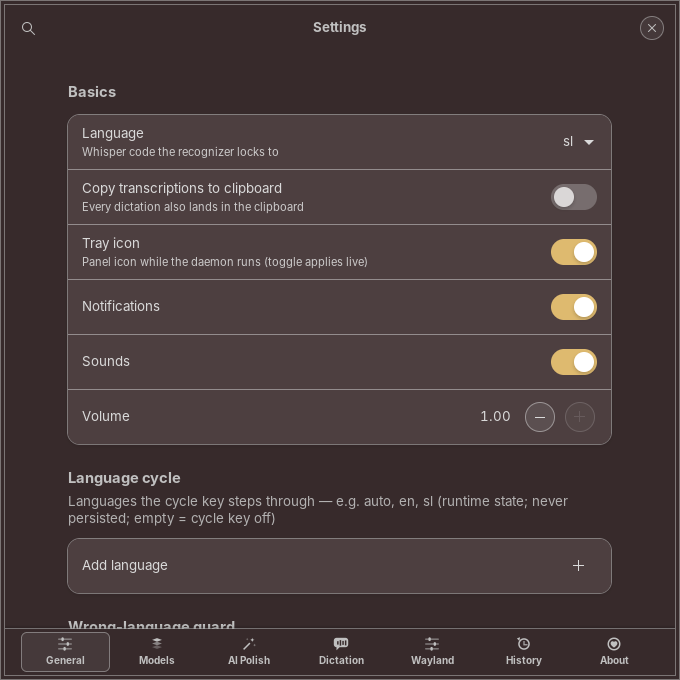
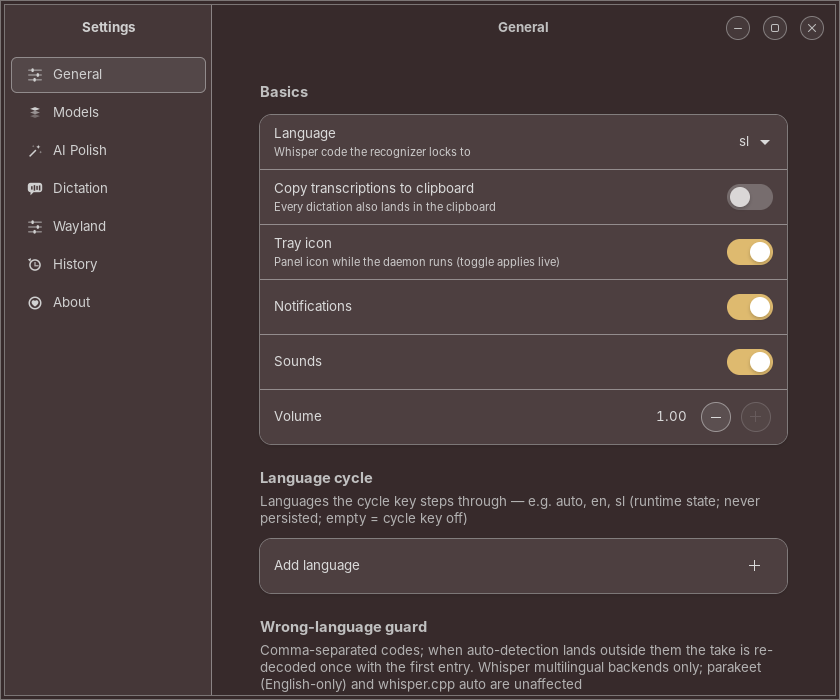
docs: tick Parakeet TDT v2/v3 roadmap (already shipped, 99c4afd) + sidebar screenshots
Live-verified both models on this machine: v2 via the integration
golden test, v3 via the production backend factory (1.9 s load, 0.45 s
transcribe of 7.4 s audio on the CPU wheel, ~16x realtime). fp16/fp32
variants noted as possible future upgrade; Realtime streaming stays
open. Settings screenshots retaken for the NavigationSplitView sidebar
(C5b/2).

diff --git a/docs/ROADMAP.md b/docs/ROADMAP.md
@@ -70,8 +70,19 @@ sources. Everything below is a known, classified gap — see
       clipboard-manager hygiene markers (see STATUS).
 
 ## v0.4 — model variety
-- [ ] Parakeet TDT v2/v3 on GPU via NeMo / ONNX Runtime — upstream's default
-      model and the highest-value Linux addition.
+- [x] Parakeet TDT v2/v3 on GPU via NeMo / ONNX Runtime — DONE (99c4afd):
+      `fluidvoice/backends/parakeet_onnx.py` runs both v2 (en) and v3
+      (25 European languages) through the sha256-pinned sherpa-onnx int8
+      exports with a pure-numpy log-mel featurizer and a greedy TDT
+      decoder — no NeMo/torchaudio. CUDA EP is auto-picked when the
+      installed onnxruntime wheel has it; the CPU wheel alone is already
+      dictation-grade (verified 2026-09-08 on this machine: v3 loads in
+      1.9 s, transcribes 7.4 s of audio in 0.45 s ≈ 16× realtime;
+      tests/integration/test_parakeet_real.py pins the v2 golden
+      transcript). Explicit backend selection (Settings → Models);
+      fp16/fp32 quality variants are a possible future upgrade (sherpa
+      ships a v2 fp16 tarball; the backend currently pins the int8
+      filenames).
 - [ ] Parakeet Realtime / Nemotron 3.5 streaming (NeMo/Riva) — the
       segmented preview already streams window-wise on every backend
       (2026-09-05); true streaming engines would tighten first-word latency
